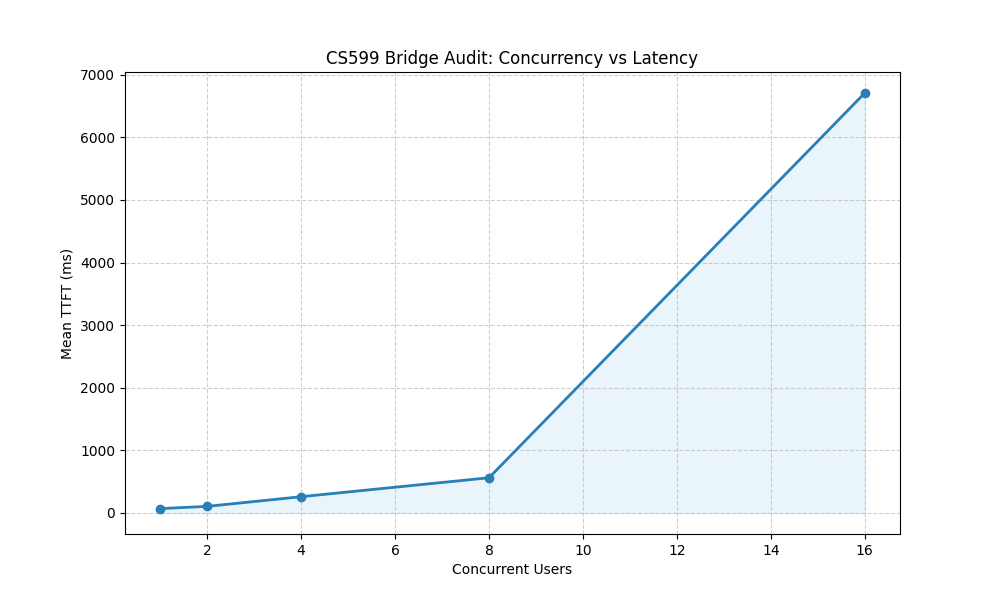
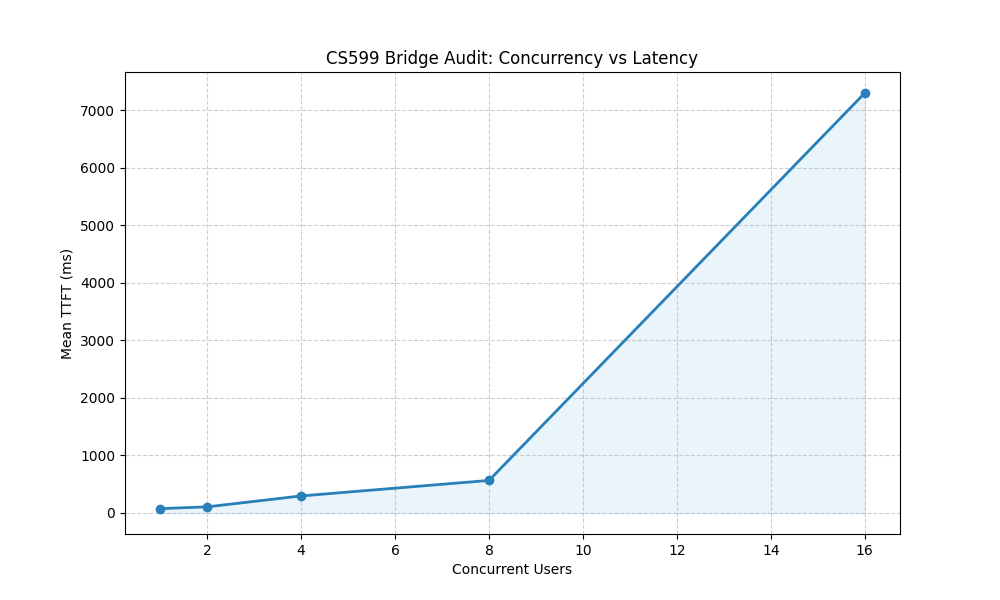
feat: add experiment for log-probability hallucination detection with temperature variations
- Implemented a new script `experiment_logprobs_hallucination.py` to analyze model confidence across different temperature settings.
- Designed experiments using various prompt types to compare log-prob distributions at low and high temperatures.
- Included functionality to trigger alerts based on average log-probability thresholds.
- Added visualization of results through a heatmap to illustrate model confidence.

diff --git a/experiment_logprobs_hallucination.py b/experiment_logprobs_hallucination.py
@@ -1,0 +1,154 @@
+import requests
+import json
+import time
+import statistics
+import matplotlib.pyplot as plt
+
+API_URL = "http://localhost:8080/completion"
+
+# 实验设计：同一组 prompt，分别在低 temperature 和高 temperature 下运行
+# 原理：低 temp 时模型始终取高概率 token（确定性高）
+#       高 temp 时模型被迫采样低概率 token（暴露真实分布不确定性）
+PROMPTS = [
+    {"name": "事实", "prompt": "Q: 太阳系中最大的行星是哪一颗？\nA: "},
+    {"name": "诱导", "prompt": "Q: 请解释爱因斯坦在 1995 年发表的关于互联网协议的论文核心观点。\nA: "},
+    {"name": "虚构", "prompt": "Q: 请用专业术语详细描述反重力引擎中量子真空极化场的数学推导过程。\nA: "},
+    {"name": "模糊标准", "prompt": "Q: 根据 2014 年 ISO/IEC 29182-7 标准第 4.3.2 节的附录 C，第三个注意事项是什么？\nA: "},
+    {"name": "噪声", "prompt": "Q: xk7#mZ@9!qrT$vL2pN&bF5jW*sD8cY^hK0aE\nA: "},
+]
+
+TEMPERATURES = [0.1, 0.7, 1.5]
+TOP_N = 3
+MAX_TOKENS = 64  # 缩短生成量，聚焦前几个 token 的 logprob 分布
+
+# 熔断阈值
+AVG_THRESHOLD = -1.5
+
+def get_logprobs(prompt, temperature):
+    payload = {
+        "prompt": prompt,
+        "n_predict": MAX_TOKENS,
+        "temperature": temperature,
+        "n_probs": TOP_N,
+        "stream": False,
+    }
+
+    start = time.time()
+    response = requests.post(API_URL, json=payload, timeout=120)
+    elapsed = time.time() - start
+    data = response.json()
+
+    content = data.get("content", "").strip()
+    logprobs = []
+    for token_info in data.get("completion_probabilities", []):
+        logprobs.append(token_info["logprob"])
+
+    return content, logprobs, elapsed
+
+
+def run_experiment():
+    print("=" * 70)
+    print("  CS599 Lab 5: Log-probs 幻觉拦截实验（Circuit Breaker）")
+    print("=" * 70)
+    print(f"策略: 同一 prompt，三种 temperature 下对比 logprob 分布")
+    print(f"熔断规则: 平均 logprobs < {AVG_THRESHOLD}")
+    print(f"核心假设: 高 temperature 下，模型被迫采样低概率 token，")
+    print(f"           对于知识盲区的问题，logprob 会显著降低\n")
+
+    all_results = []
+
+    for p in PROMPTS:
+        print(f"\n{'='*60}")
+        print(f"📋 {p['name']}: {p['prompt'][:70]}...")
+        print("-" * 60)
+
+        prompt_results = {"name": p["name"], "runs": []}
+
+        for temp in TEMPERATURES:
+            content, logprobs, elapsed = get_logprobs(p["prompt"], temp)
+
+            if logprobs:
+                avg_lp = statistics.mean(logprobs)
+                min_lp = min(logprobs)
+                low_count = sum(1 for lp in logprobs if lp < -3.0)
+
+                trigger = avg_lp < AVG_THRESHOLD
+                status = "🔴 熔断" if trigger else "✅ 通过"
+
+                print(f"  temp={temp:.1f}  avg={avg_lp:.4f}  min={min_lp:.4f}  "
+                      f"low(<-3.0)={low_count}  {status}")
+                print(f"         生成: {content[:80]}...")
+
+                prompt_results["runs"].append({
+                    "temp": temp,
+                    "avg": avg_lp,
+                    "min": min_lp,
+                    "low_count": low_count,
+                    "content": content,
+                    "trigger": trigger,
+                })
+            else:
+                print(f"  temp={temp:.1f}  ❌ 无 logprobs 数据")
+
+        all_results.append(prompt_results)
+
+    # 汇总报告
+    print(f"\n\n{'='*70}")
+    print("  📊 实验总结报告")
+    print("=" * 70)
+    print(f"\n{'用例':<8} | {'temp=0.1':>9} | {'temp=0.7':>9} | {'temp=1.5':>9} | {'最差':>9} | {'熔断?'}")
+    print("-" * 70)
+
+    for pr in all_results:
+        avgs = [r["avg"] for r in pr["runs"]]
+        vals = [f"{a:.4f}" if a is not None else "N/A" for a in avgs]
+        worst = min(avgs) if avgs else 0
+        any_trigger = any(r["trigger"] for r in pr["runs"])
+        icon = "🔴" if any_trigger else "  "
+        print(f"{pr['name']:<8} | {vals[0]:>9} | {vals[1]:>9} | {vals[2]:>9} | {worst:>9.4f} | {icon}")
+
+    print("-" * 70)
+
+    total_fires = sum(1 for pr in all_results for r in pr["runs"] if r["trigger"])
+    print(f"\n总熔断次数: {total_fires}/{len(PROMPTS)*len(TEMPERATURES)}")
+
+    # 绘制对比图
+    plot_heatmap(all_results)
+
+
+def plot_heatmap(all_results):
+    names = [pr["name"] for pr in all_results]
+    temps = TEMPERATURES
+
+    data = []
+    for pr in all_results:
+        row = [r["avg"] for r in pr["runs"]]
+        data.append(row)
+
+    fig, ax = plt.subplots(figsize=(8, 4))
+    im = ax.imshow(data, cmap="RdYlGn_r", aspect="auto", vmin=-3, vmax=0)
+
+    ax.set_xticks(range(len(temps)))
+    ax.set_xticklabels([f"t={t}" for t in temps])
+    ax.set_yticks(range(len(names)))
+    ax.set_yticklabels(names)
+    ax.set_xlabel("Temperature")
+    ax.set_ylabel("Prompt Type")
+    ax.set_title("Model Confidence (avg logprob) across Temperature")
+    plt.colorbar(im, label="Avg Log-prob")
+
+    # 数值标注
+    for i in range(len(names)):
+        for j in range(len(temps)):
+            val = data[i][j]
+            color = "white" if val < -1.5 else "black"
+            ax.text(j, i, f"{val:.2f}", ha="center", va="center",
+                    fontsize=11, fontweight="bold", color=color)
+
+    plt.tight_layout()
+    plt.savefig("cs599_logprobs_confidence.png", dpi=150)
+    print("\n📊 置信度热力图已保存: cs599_logprobs_confidence.png")
+
+
+if __name__ == "__main__":
+    run_experiment()

diff --git a/experiment_A_compute.py b/experiment_A_compute.py
@@ -51,8 +51,16 @@ def run_experiment():
             print(f"{length:<20} | {avg_lat:<20.2f} | {tps:.2f}")
 
     print("-" * 60)
-    print("💡 结论提示：Prefill 阶段是并行的。随着输入长度翻倍，耗时应呈线性增长。")
-    print("如果增长是非线性的，说明 GPU 算力已达到瓶颈。")
+    print("💡 结论分析：")
+    print("1. Prefill 阶段是并行计算：输入 prompt 的所有 token 可以一次性")
+    print("   打包送入 GPU，因此 Tokens/s 应基本保持恒定。")
+    print("2. 短 prompt 的 Tokens/s 通常偏高——因为 GPU kernel 启动、网络")
+    print("   传输等固定开销在小矩阵上占比更大，导致测量值虚高。")
+    print("3. 如果 Tokens/s 随长度增长出现明显下降，说明 GPU 算力已逼近")
+    print("   上限（Compute-bound），或长 prompt 触发了 kernel 分片执行。")
+    print("4. 对比实验三（Decoding）的 TPS 值：Prefill 的 Tokens/s 通常")
+    print("   远高于 Decoding 的 TPS，这是矩阵-矩阵乘法 vs 向量-矩阵")
+    print("   乘法的本质差异——前者计算密集，后者内存密集。")
 
 if __name__ == "__main__":
     run_experiment()

diff --git a/CS599_Lab05_Instruction.md b/CS599_Lab05_Instruction.md
@@ -147,13 +147,15 @@ curl http://localhost:8080/health
 # 应返回 {"status":"ok"}
 ```
 
-### 2.3（可选）启动 Arize Phoenix
+### 2.3（可选）Docker 监控栈
 
-实验四会将 OpenTelemetry Trace 发送到 Phoenix，用于可视化追踪请求延迟。
+实验四会将 OpenTelemetry Trace 发送到 Phoenix，实验五/六可通过 Prometheus + Grafana 实时监控 llama-server 指标。三个组件统一通过 Docker Compose 启动：
 
 ```bash
-phoenix serve
-# 默认监听 http://localhost:6006
+docker compose up -d
+# Phoenix:    http://localhost:6006
+# Prometheus: http://localhost:19090
+# Grafana:    http://localhost:3000 (admin/admin)
 ```
 
 ---
@@ -461,7 +463,7 @@ async def run_batch(concurrency):
 ### 6.4 执行步骤
 
 1. 确保 llama-server 已用正确参数启动：`--parallel 8 --ctx-size 65536`
-2. （可选）启动 Phoenix：`phoenix serve`
+2. （可选）启动 Docker 监控栈：`docker compose up -d`（包含 Phoenix、Prometheus、Grafana）
 3. 运行实验：
 
 ```bash
@@ -770,6 +772,12 @@ docker compose up -d
 
 ```yaml
 services:
+  phoenix:
+    image: arizephoenix/phoenix:latest
+    ports: ["6006:6006"]
+    environment:
+      - PHOENIX_PORT=6006
+
   prometheus:
     image: prom/prometheus:latest
     ports: ["19090:9090"]
@@ -788,6 +796,17 @@ services:
       - ./cs599-dashboard.json:/var/lib/grafana/dashboards/cs599-dashboard.json:ro
 ```
 
+只需一条命令即可启动全部监控栈：
+
+```bash
+docker compose up -d
+# Phoenix:    http://localhost:6006
+# Prometheus: http://localhost:19090
+# Grafana:    http://localhost:3000 (admin/admin)
+```
+
+完成后停止容器：`docker compose down`
+
 Prometheus 配置文件 `prometheus.yml` 指示抓取 llama-server 的 metrics：
 
 ```yaml
@@ -805,6 +824,7 @@ scrape_configs:
 
 | 服务 | 地址 | 说明 |
 |------|------|------|
+| Phoenix | http://localhost:6006 | OpenTelemetry Trace 可视化，实验四的 Trace 数据发送到这里 |
 | Grafana | http://localhost:3000 | 登录 admin/admin，自动加载预设 Dashboard |
 | Prometheus | http://localhost:19090 | 查询原生指标 |
 
@@ -989,6 +1009,7 @@ print(pd.concat([bw_data, tp_data], axis=1).T)
 | GQA | Grouped-Query Attention | 分组查询注意力 |
 | MLA | Multi-Head Latent Attention | 多头潜注意力（DeepSeek 提出） |
 | PagedAttention | — | vLLM 提出的 KV Cache 分页管理机制 |
+| Phoenix | Arize Phoenix | OpenTelemetry Trace 可视化工具 |
 | Slot | — | llama-server 的并发请求处理槽位 |
 | FP16 | Half-Precision Floating Point | 16 位浮点数，每个参数占 2 字节 |
 | Q4_K_M | 4-bit Quantization (K-quants, Medium) | 4-bit 量化格式之一 |
@@ -1013,7 +1034,7 @@ print(pd.concat([bw_data, tp_data], axis=1).T)
 | `Connection refused` | llama-server 未启动 | 先确认 `curl http://localhost:8080/health` 返回 `{"status":"ok"}` |
 | 请求超时 | prompt 过长导致 Prefill 时间超过默认 timeout | 增大 `timeout` 参数，或减少 prompt 长度 |
 | JSON 解析失败 | GBNF 约束未生效或 model 版本不同 | 确认 `bridge_standard.gbnf` 路径正确，检查 llama-server 日志 |
-| Phoenix 无数据 | OTLP endpoint 配置错误 | 确认 `phoenix serve` 已在 6006 端口运行 |
+| Phoenix 无数据 | Docker 监控栈未启动 | 确认 `docker compose up -d` 已运行，Phoenix 在 6006 端口监听 |
 
 ### B.3 实验数据异常
 
@@ -1027,5 +1048,5 @@ print(pd.concat([bw_data, tp_data], axis=1).T)
 
 ---
 
-**版本**: v8.0-OptionalExperiments
+**版本**: v8.1-DockerUnified
 **最后更新**: 2026-05-10